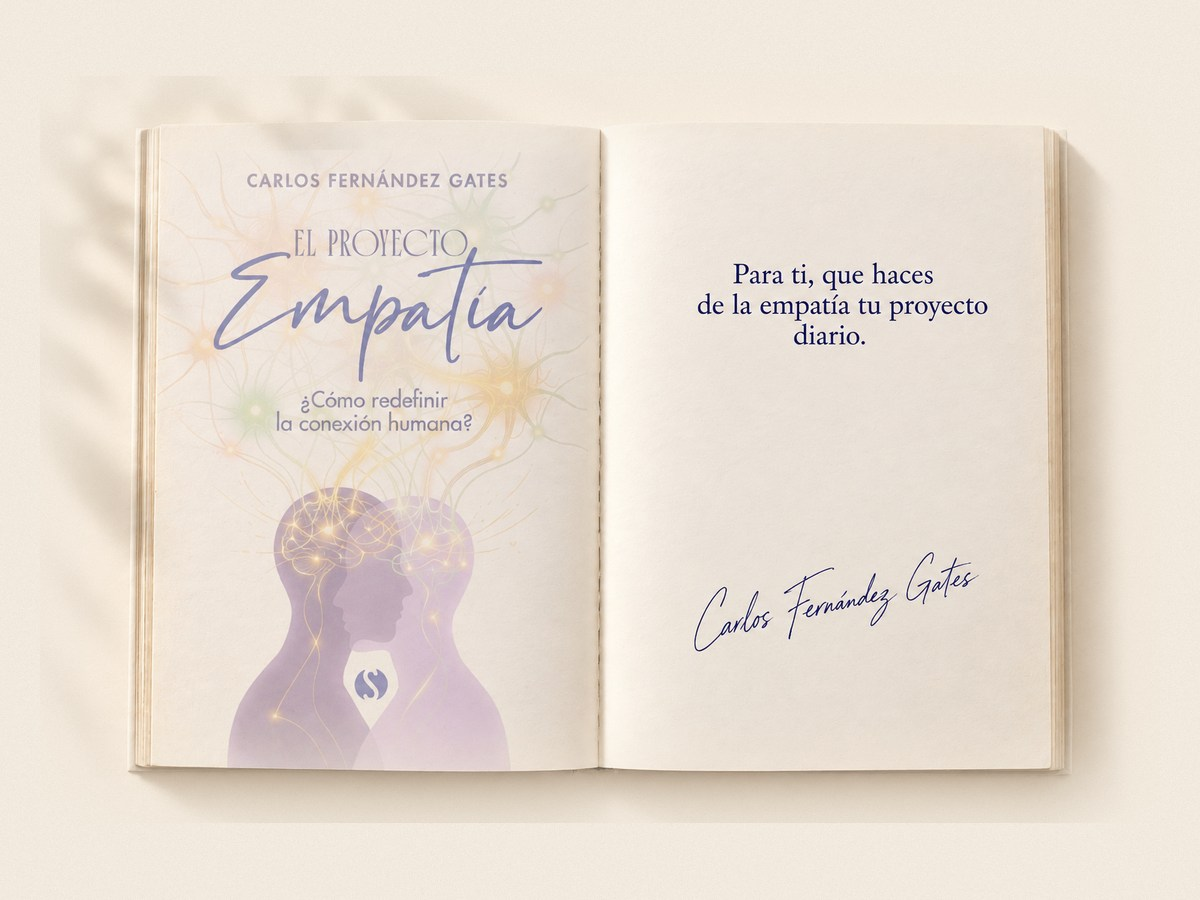
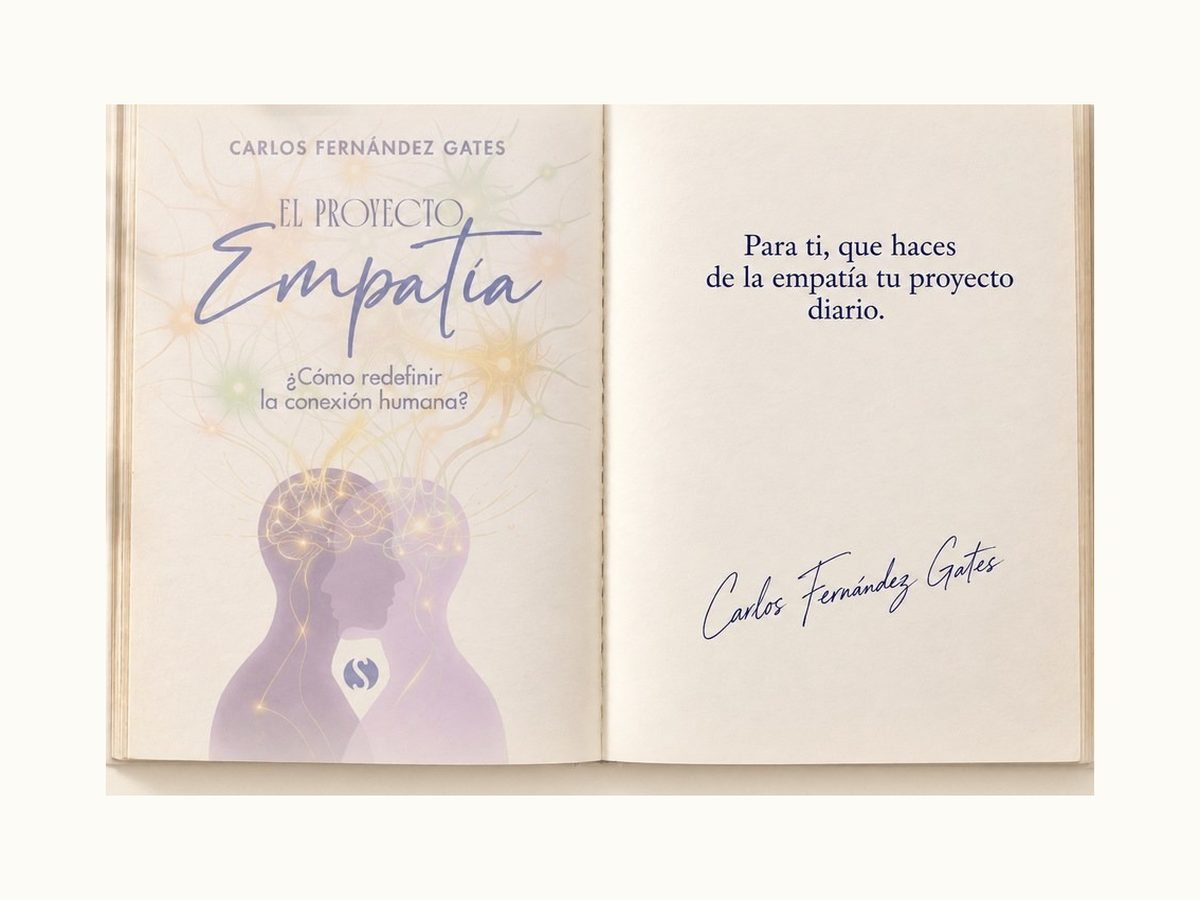
Replace special edition photo and social sharing image

diff --git a/index.html b/index.html
@@ -8,16 +8,20 @@
   <link rel="icon" type="image/png" href="/favicon.png">
   <link rel="apple-touch-icon" href="/favicon.png">
   <meta name="robots" content="index,follow,max-image-preview:large">
-  <link rel="canonical" href="https://xn--elproyectoempata-nsb.com/">
+  <link rel="canonical" href="https://elproyectoempatia.com/">
   <link rel="sitemap" type="application/xml" href="/sitemap.xml">
   <meta property="og:type" content="website">
   <meta property="og:locale" content="es_PE">
   <meta property="og:site_name" content="El Proyecto Empatía">
   <meta property="og:title" content="El Proyecto Empatía | Una novela de Carlos Fernández Gates">
   <meta property="og:description" content="Una palabra. Un dispositivo. Una pregunta incómoda. Una novela de Carlos Fernández Gates sobre sentir lo que siente el otro.">
-  <meta property="og:url" content="https://xn--elproyectoempata-nsb.com/">
-  <meta property="og:image" content="https://xn--elproyectoempata-nsb.com/assets/hero-book.webp">
+  <meta property="og:url" content="https://elproyectoempatia.com/">
+  <meta property="og:image" content="https://elproyectoempatia.com/assets/og-image.jpg">
+  <meta property="og:image:width" content="1200">
+  <meta property="og:image:height" content="630">
+  <meta property="og:image:type" content="image/jpeg">
   <meta name="twitter:card" content="summary_large_image">
+  <meta name="twitter:image" content="https://elproyectoempatia.com/assets/og-image.jpg">
   <!-- Google tag (gtag.js) -->
   <script async src="https://www.googletagmanager.com/gtag/js?id=G-J3E4QW38PJ"></script>
   <script>
@@ -33,8 +37,8 @@
     "author":{"@type":"Person","name":"Carlos Fernández Gates"},
     "inLanguage":"es",
     "description":"Una novela sobre empatía, tecnología y los límites de sentir el dolor de otra persona.",
-    "url":"https://xn--elproyectoempata-nsb.com/",
-    "image":"https://xn--elproyectoempata-nsb.com/assets/hero-book.webp"
+    "url":"https://elproyectoempatia.com/",
+    "image":"https://elproyectoempatia.com/assets/hero-book.webp"
   }</script>
   <title>El Proyecto Empatía | Una novela de Carlos Fernández Gates</title>
   <link rel="preconnect" href="https://fonts.googleapis.com">
@@ -516,7 +520,7 @@
         </article>
         <article class="edition">
           <div class="product-stage gift-stage">
-            <img class="gift-box-image" src="assets/dedicated-signed.jpg" alt="Ejemplar de El Proyecto Empatía abierto en una página dedicada por Carlos Fernández Gates">
+            <img class="gift-box-image" src="assets/dedicated-signed.jpg" alt="El Proyecto Empatía abierto por una página dedicada y firmada por Carlos Fernández Gates">
           </div>
           <div class="edition-info">
             <div>
